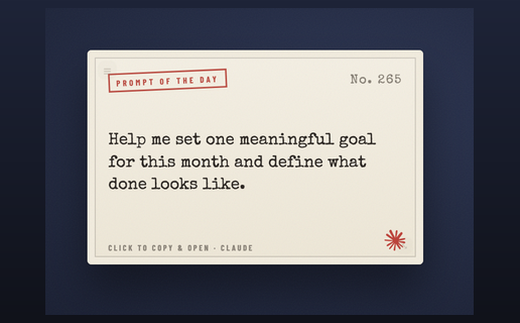
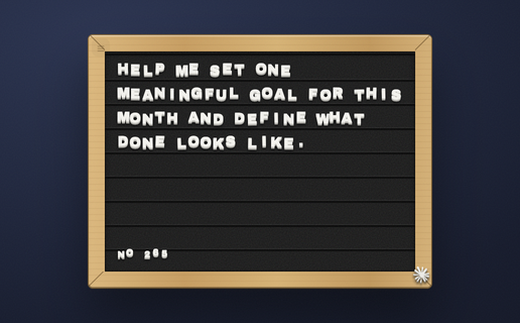
Second redesign pass: every widget a distinct object, new thumbs and homescreen
Twelve widgets were rebuilt again with real references so no two share a material, palette, or typeface: a Braun-style record player, a thermal receipt printer, a cross-stitch sampler in an embroidery hoop, a manila folder, a felt letter board, a 1958 Predicta television, a velvet tarot table, a record-shop pegboard, a marble-and-brass vitrine, an antique parchment globe, a photographer's light table, and an industrial control cabinet for the Pis. Thumbnails, the composed homescreen, and the table blurbs are updated to match.

diff --git a/README.md b/README.md
@@ -5,12 +5,14 @@
 [Übersicht gallery](https://tracesof.net/uebersicht-widgets/) · [Widgets](#widgets) · [Install](#install)
 
 A set of 16 widgets for [Übersicht](http://tracesof.net/uebersicht/), each built
-as a physical object rather than a card: a hardware sampler, a split-flap
-departures board, a rack panel, a direct-drive turntable, a thermal receipt, a
-manila folder, a typed card, a taped print, a velvet reading table, a walnut
-record shelf, a museum vitrine, a brass desk globe, a lightbox, an LED matrix
-panel, a live wallpaper, and a small robot that lives behind your windows.
-Each widget lives in its own repository (linked below).
+as a distinct physical object rather than a card: a hardware sampler, a
+split-flap departures board, an industrial control cabinet, a Braun-style
+record player, a thermal receipt printer, a manila folder, a felt letter
+board, a 1958 Predicta television, a velvet tarot table, a record-shop
+pegboard, a marble-and-brass vitrine, an antique parchment globe, a
+photographer's light table, a cross-stitch sampler in an embroidery hoop, a
+live wallpaper, and a small robot that lives behind your windows. Each widget
+lives in its own repository (linked below).
 
 ![The sixteen widgets composed on one desktop](homescreen.png)
 
@@ -18,11 +20,11 @@ Each widget lives in its own repository (linked below).
 
 |     |     |     |
 |:---:|:---:|:---:|
-| <a href="https://github.com/jke48222/animated-wallpaper-widget"><img src="thumbs/animated-wallpaper.png" width="260"><br><b>Animated Wallpaper</b></a><br><sub>A full-screen live WebGL shader wallpaper that animates behind your other widgets.</sub> | <a href="https://github.com/jke48222/clipboard-history-widget"><img src="thumbs/clipboard-history.png" width="260"><br><b>Clipboard History</b></a><br><sub>Your clipboard history as a depth-faded stack, with pinning, secret masking, and kind filters.</sub> | <a href="https://github.com/jke48222/daily-ai-prompt-widget"><img src="thumbs/daily-ai-prompt.png" width="260"><br><b>Daily AI Prompt</b></a><br><sub>One daily AI prompt on a frosted-glass panel; click to copy and open a new chat.</sub> |
-| <a href="https://github.com/jke48222/daily-astronomy-photo-widget"><img src="thumbs/daily-astronomy-photo.png" width="260"><br><b>Daily Astronomy Photo</b></a><br><sub>NASA's Astronomy Picture of the Day, full-bleed, with inline video on .mp4 days.</sub> | <a href="https://github.com/jke48222/daily-tarot-widget"><img src="thumbs/daily-tarot.png" width="260"><br><b>Daily Tarot</b></a><br><sub>A daily Rider-Waite-Smith tarot card with its upright/reversed reading.</sub> | <a href="https://github.com/jke48222/github-contributions-widget"><img src="thumbs/github-contributions.png" width="260"><br><b>GitHub Contributions</b></a><br><sub>A GitHub contribution graph with current streak, yearly total, and per-day tooltips.</sub> |
-| <a href="https://github.com/jke48222/now-playing-widget"><img src="thumbs/now-playing.png" width="260"><br><b>Now Playing</b></a><br><sub>The current track as a tilted, continuously spinning vinyl record.</sub> | <a href="https://github.com/jke48222/recent-album-covers-widget"><img src="thumbs/recent-album-covers.png" width="260"><br><b>Recent Album Covers</b></a><br><sub>A 3x3 mosaic of the nine most-played albums in your Music library.</sub> | <a href="https://github.com/jke48222/recent-downloads-widget"><img src="thumbs/recent-downloads.png" width="260"><br><b>Recent Downloads</b></a><br><sub>The three most recent files in your Downloads folder with real macOS previews.</sub> |
-| <a href="https://github.com/jke48222/rotating-3d-model-widget"><img src="thumbs/rotating-3d-model.png" width="260"><br><b>Rotating 3D Model</b></a><br><sub>A live, auto-rotating 3D PBR model that changes daily, with offline fallback.</sub> | <a href="https://github.com/jke48222/spinning-globe-widget"><img src="thumbs/spinning-globe.png" width="260"><br><b>Spinning Globe</b></a><br><sub>A slowly spinning dot-matrix globe with arcs and a pin on every city you've visited.</sub> | <a href="https://github.com/jke48222/wallpaper-switcher-widget"><img src="thumbs/wallpaper-switcher.png" width="260"><br><b>Wallpaper Switcher</b></a><br><sub>Browse and set your desktop wallpaper from ~/Pictures/Wallpapers.</sub> |
-| <a href="https://github.com/jke48222/agent-fleet-widget"><img src="thumbs/agent-fleet.png" width="260"><br><b>Agent Fleet</b></a><br><sub>Every coding-agent session on your Mac: what each is doing, which ones are waiting on you, and today's tokens.</sub> | <a href="https://github.com/jke48222/keys-and-pads-widget"><img src="thumbs/keys-and-pads.png" width="260"><br><b>Keys & Pads</b></a><br><sub>A playable 16-pad drum machine with a 16-step sequencer and a two-octave piano, synthesized entirely in the widget.</sub> | <a href="https://github.com/jke48222/pi-fleet-widget"><img src="thumbs/pi-fleet.png" width="260"><br><b>Pi Fleet</b></a><br><sub>Your Raspberry Pis at a glance: reachability, SoC temperature, load, memory, disk, uptime, and throttling.</sub> |
+| <a href="https://github.com/jke48222/animated-wallpaper-widget"><img src="thumbs/animated-wallpaper.png" width="260"><br><b>Animated Wallpaper</b></a><br><sub>A full-screen live WebGL shader wallpaper that animates behind your other widgets.</sub> | <a href="https://github.com/jke48222/clipboard-history-widget"><img src="thumbs/clipboard-history.png" width="260"><br><b>Clipboard History</b></a><br><sub>Your clipboard history printed by a thermal receipt printer, with pinning, secret masking, and kind filters.</sub> | <a href="https://github.com/jke48222/daily-ai-prompt-widget"><img src="thumbs/daily-ai-prompt.png" width="260"><br><b>Daily AI Prompt</b></a><br><sub>One daily AI prompt spelled out on a felt letter board; click to copy and open a new chat.</sub> |
+| <a href="https://github.com/jke48222/daily-astronomy-photo-widget"><img src="thumbs/daily-astronomy-photo.png" width="260"><br><b>Daily Astronomy Photo</b></a><br><sub>NASA's Astronomy Picture of the Day, broadcast on a 1958 Predicta television.</sub> | <a href="https://github.com/jke48222/daily-tarot-widget"><img src="thumbs/daily-tarot.png" width="260"><br><b>Daily Tarot</b></a><br><sub>A daily Rider-Waite-Smith tarot card on a velvet table, with its upright or reversed reading.</sub> | <a href="https://github.com/jke48222/github-contributions-widget"><img src="thumbs/github-contributions.png" width="260"><br><b>GitHub Contributions</b></a><br><sub>Your GitHub contribution graph cross-stitched in an embroidery hoop, with streak and yearly total.</sub> |
+| <a href="https://github.com/jke48222/now-playing-widget"><img src="thumbs/now-playing.png" width="260"><br><b>Now Playing</b></a><br><sub>The current track on a Braun-style record player: the record spins and the tonearm swings on while it plays.</sub> | <a href="https://github.com/jke48222/recent-album-covers-widget"><img src="thumbs/recent-album-covers.png" width="260"><br><b>Recent Album Covers</b></a><br><sub>The nine most recently played album covers standing on a record-shop pegboard.</sub> | <a href="https://github.com/jke48222/recent-downloads-widget"><img src="thumbs/recent-downloads.png" width="260"><br><b>Recent Downloads</b></a><br><sub>The three most recent files in your Downloads folder as sheets in a manila folder, with real macOS previews.</sub> |
+| <a href="https://github.com/jke48222/rotating-3d-model-widget"><img src="thumbs/rotating-3d-model.png" width="260"><br><b>Rotating 3D Model</b></a><br><sub>A live, auto-rotating 3D model in a brass-and-marble museum vitrine; changes daily, offline fallback.</sub> | <a href="https://github.com/jke48222/spinning-globe-widget"><img src="thumbs/spinning-globe.png" width="260"><br><b>Spinning Globe</b></a><br><sub>An antique parchment desk globe with a red pin on every city you've visited.</sub> | <a href="https://github.com/jke48222/wallpaper-switcher-widget"><img src="thumbs/wallpaper-switcher.png" width="260"><br><b>Wallpaper Switcher</b></a><br><sub>Browse and set your desktop wallpaper from a photographer's light table of 35 mm slides.</sub> |
+| <a href="https://github.com/jke48222/agent-fleet-widget"><img src="thumbs/agent-fleet.png" width="260"><br><b>Agent Fleet</b></a><br><sub>Every coding-agent session on your Mac: what each is doing, which ones are waiting on you, and today's tokens.</sub> | <a href="https://github.com/jke48222/keys-and-pads-widget"><img src="thumbs/keys-and-pads.png" width="260"><br><b>Keys & Pads</b></a><br><sub>A playable 16-pad drum machine with a 16-step sequencer and a two-octave piano, synthesized entirely in the widget.</sub> | <a href="https://github.com/jke48222/pi-fleet-widget"><img src="thumbs/pi-fleet.png" width="260"><br><b>Pi Fleet</b></a><br><sub>Your Raspberry Pis on an industrial control cabinet: reachability, temperature gauges, load, memory, disk, uptime, and throttling.</sub> |
 | <a href="https://github.com/jke48222/window-pet-widget"><img src="thumbs/window-pet.png" width="260"><br><b>Window Pet</b></a><br><sub>A small robot that lives behind your windows: it stands on their edges, rides them, falls when they close, and sleeps when nothing happens.</sub> |  |  |
 
 ## Install
